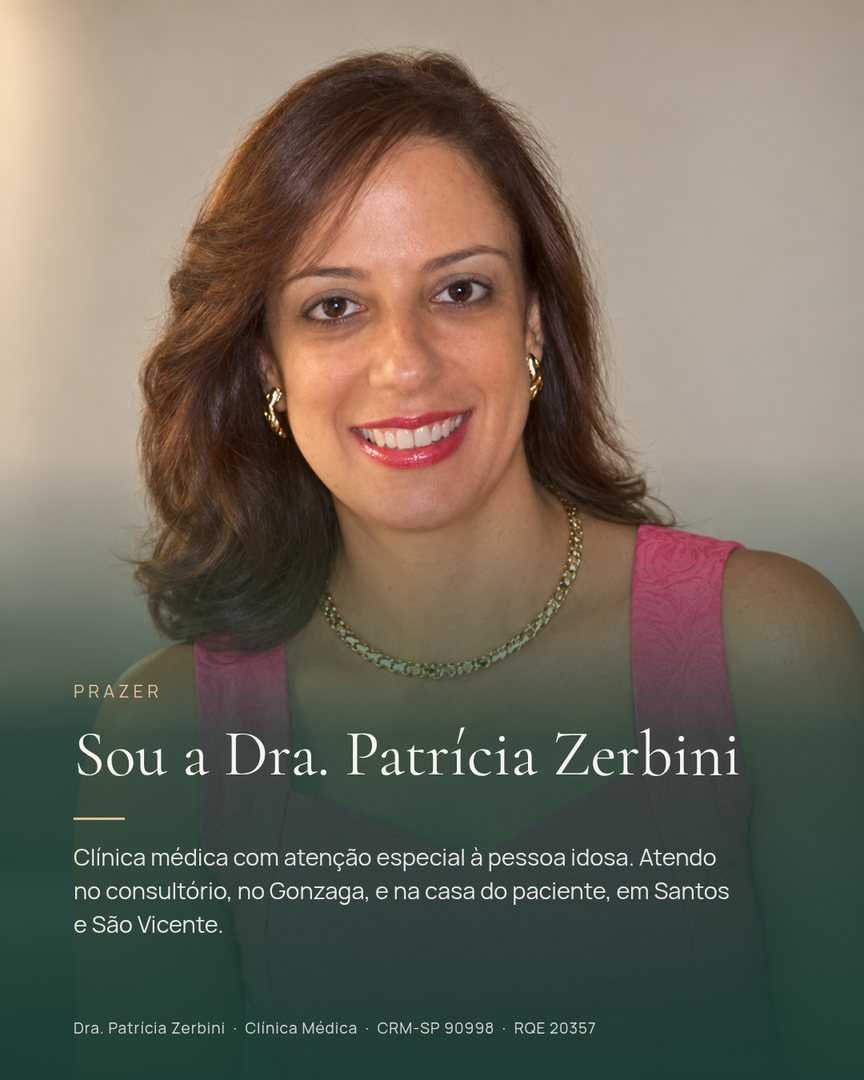
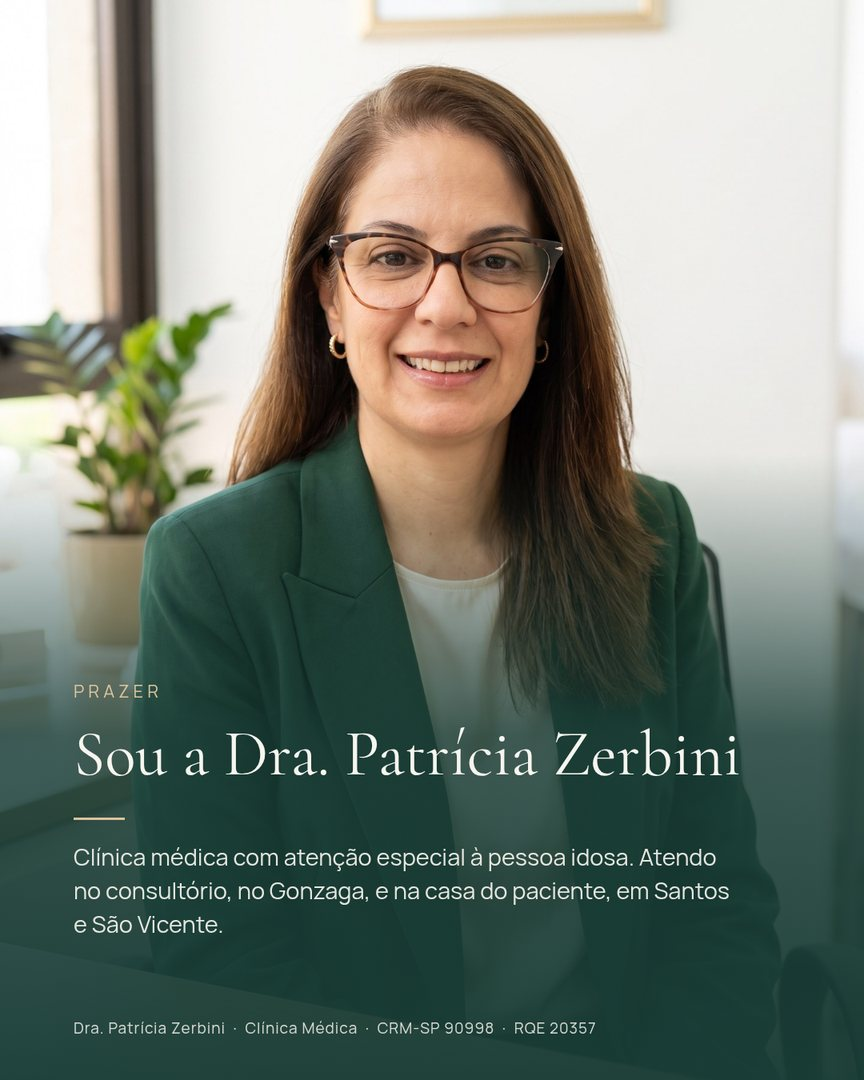
Atualizacao do site 27/09/2026

diff --git a/index.html b/index.html
@@ -34,7 +34,7 @@
 <div class="care-copy"><p class="eyebrow light">UM OLHAR ATENTO A CADA DETALHE</p><h2>A vida acontece em casa.<br><em>O cuidado também pode.</em></h2><p>A consulta domiciliar permite compreender como a pessoa vive, se movimenta, se alimenta e organiza seus medicamentos. São detalhes que ajudam a construir um cuidado possível na vida real.</p><ul class="care-list"><li>Avaliação clínica e acompanhamento de condições crônicas</li><li>Atenção à mobilidade, à memória e à autonomia</li><li>Revisão dos medicamentos em uso</li><li>Orientação à família e aos cuidadores</li></ul><a class="text-link" href="#como-funciona">Entenda como funciona <span aria-hidden="true">↗</span></a></div>
 </section>
 <section class="about section" id="patricia">
-<div class="portrait-column"><div class="portrait"><img src="assets/dra-patricia-retrato.png" alt="Dra. Patrícia Zerbini" width="1122" height="1402" loading="lazy"></div><div class="portrait-caption"><span>PZ</span><p>Conhecimento para cuidar.<br>Sensibilidade para acolher.</p></div></div>
+<div class="portrait-column"><div class="portrait"><img src="assets/dra-patricia-retrato-2026.jpg" alt="Dra. Patrícia Zerbini" width="1120" height="1400" loading="lazy"></div><div class="portrait-caption"><span>PZ</span><p>Conhecimento para cuidar.<br>Sensibilidade para acolher.</p></div></div>
 <div class="about-copy"><p class="eyebrow">QUEM VAI CUIDAR DE VOCÊ</p><h2>Dra. Patrícia<br><em>Zerbini</em></h2><p class="doctor-register">CLÍNICA MÉDICA · CRM 90998 · RQE 20357</p><p class="lead">Um cuidado próximo começa com uma escuta atenta.</p><p>Com experiência no acompanhamento de pacientes crônicos em domicílio e em instituições de longa permanência, a Dra. Patrícia traz para a consulta um olhar atento à saúde e à realidade de cada pessoa.</p><p>Sua proposta é cuidar da pessoa idosa com atenção individualizada, compreendendo sua história e envolvendo a família nas orientações para o dia a dia.</p><div class="credentials"><div><span>FORMAÇÃO</span><p>Medicina — Faculdade de Ciências Médicas de Santos / Centro Universitário Lusíada, 1997.</p></div><div><span>GERIATRIA</span><p>Pós-graduação pelo Hospital das Clínicas da FMUSP.</p></div><div><span>CUIDADOS PALIATIVOS</span><p>Pós-graduação pelo Instituto Paliar.</p></div><div><span>EXPERIÊNCIA</span><p>Cuidado domiciliar, acompanhamento de condições crônicas e instituições de longa permanência.</p></div></div><a class="text-link" href="https://www.linkedin.com/in/patricia-zerbini-33abb6142/" target="_blank" rel="noopener noreferrer">Conheça sua trajetória <span aria-hidden="true">↗</span></a></div>
 </section>
 <section class="steps-section" id="como-funciona"><div class="section"><div class="steps-heading"><div><p class="eyebrow">PROXIMIDADE DESDE O PRIMEIRO CONTATO</p><h2>Um caminho simples.<br><em>Um cuidado pessoal.</em></h2></div><p>Da primeira conversa à consulta,<br>cada etapa começa pela escuta.</p></div><ol class="steps"><li><span class="step-number">01</span><h3>Vamos conversar</h3><p>Conte o que a pessoa idosa precisa. Confirmamos a região de atendimento, a disponibilidade e as informações da consulta.</p></li><li><span class="step-number">02</span><h3>A consulta vai até você</h3><p>No dia combinado, a avaliação acontece em casa. Separe exames recentes e a lista de medicamentos; um familiar pode participar.</p></li><li><span class="step-number">03</span><h3>Cuidar tem continuidade</h3><p>As orientações e a necessidade de acompanhamento são definidas de acordo com a avaliação e a realidade de cada pessoa.</p></li></ol></div></section>
